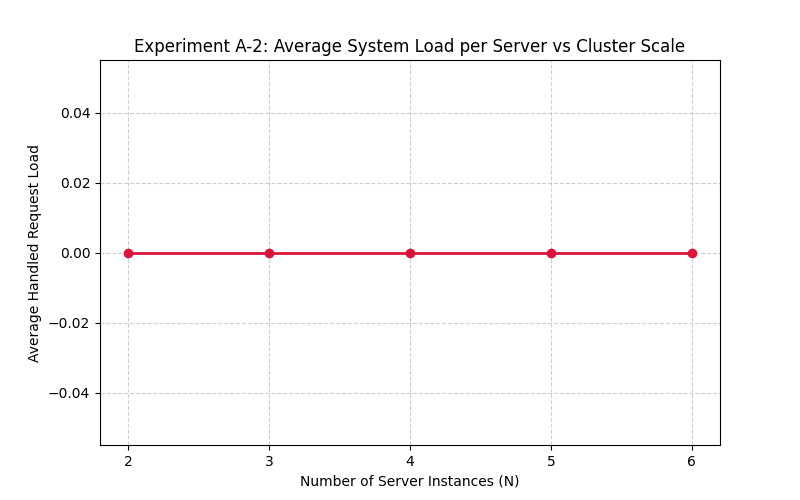
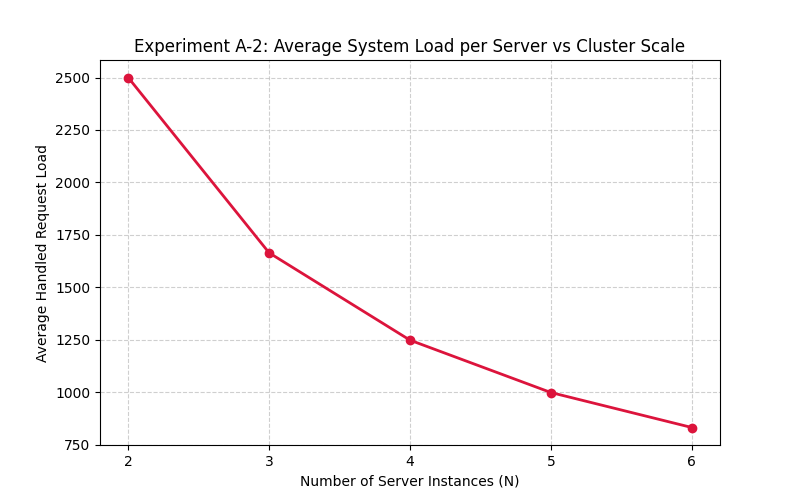
docs(task4): add A2 throughput visual and refresh README image links

diff --git a/README.md b/README.md
@@ -84,6 +84,9 @@ An implementation of a customizable load balancer that routes client requests as
 ### Experiment A-2 Output Screenshot
 ![Experiment A-2 Screenshot](./experiment_a2_line.png)
 
+### Experiment A-2 Additional Scalability Visual (Throughput vs N)
+![Experiment A-2 Throughput Screenshot](./experiment_a2_throughput.png)
+
 ### Docker Desktop Containers Screenshot
 ![Docker Desktop Containers Screenshot](./Containers.png)
 